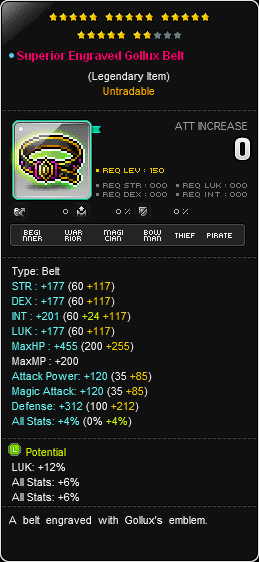
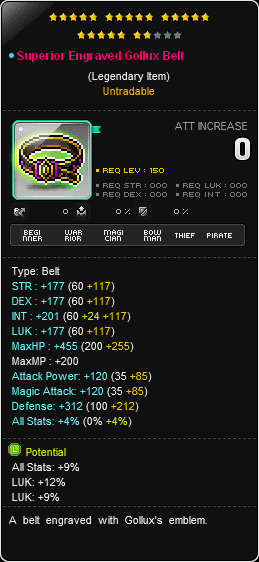
Update equip potentials

Changed region(s): [[0.0309, 0.8167, 0.3089, 0.9075]]

diff --git a/data/equips.ts b/data/equips.ts
@@ -77,7 +77,7 @@ export const equips: Equip[] = [
   {
     name: 'Belt',
     stars: [22, null, null],
-    potential: [24, null, null],
+    potential: [30, null, null],
     image: images.belt,
     alt: [null, null],
   },
@@ -113,7 +113,7 @@ export const equips: Equip[] = [
   {
     name: 'Top',
     stars: [22, null, null],
-    potential: [24, null, null],
+    potential: [27, null, null],
     image: images.top,
     alt: [null, null],
   },
@@ -135,7 +135,7 @@ export const equips: Equip[] = [
   {
     name: 'Shoulder',
     stars: [22, null, null],
-    potential: [30, null, null],
+    potential: [33, null, null],
     image: images.shoulder,
     alt: [null, null],
   },
@@ -156,7 +156,7 @@ export const equips: Equip[] = [
   {
     name: 'Shoe',
     stars: [22, null, null],
-    potential: [30, null, null],
+    potential: [33, null, null],
     image: images.shoe,
     alt: [null, null],
   },
@@ -164,7 +164,7 @@ export const equips: Equip[] = [
   {
     name: 'Emblem',
     stars: [null, null, null],
-    potential: [23, null, null],
+    potential: [33, null, null],
     image: images.emblem,
     alt: [null, null],
   },
@@ -178,7 +178,7 @@ export const equips: Equip[] = [
   {
     name: 'Secondary',
     stars: [22, null, null],
-    potential: [20, null, null],
+    potential: [33, null, null],
     image: images.secondary,
     alt: [null, null],
   },
